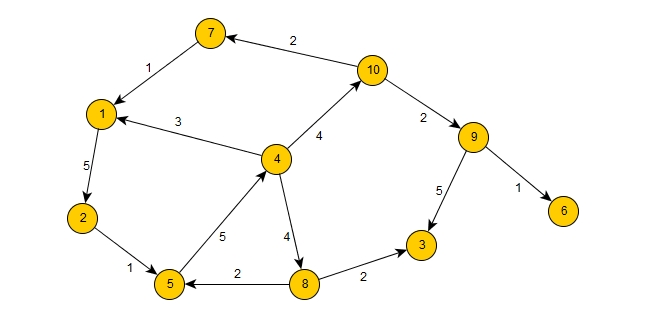
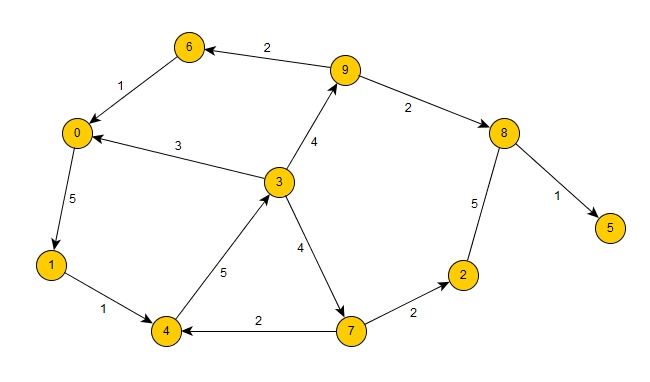
Post 9: changed graph.

diff --git a/9/src/main.rs b/9/src/main.rs
@@ -6,23 +6,23 @@ use graph::AdjacencyMatrix;
 use graph::ListOfEdges;
 
 fn main() {
-    let mut adjacency_list = AdjacencyList::<&str>::new();
-    create_sample_graph(&mut adjacency_list);
-    // AdjacencyList {
-    //     map: {
-    //         0:  {1: 5},
-    //         1:  {4: 1},
-    //         2:  {},
-    //         3:  {0: 3, 7: 4, 9: 4},
-    //         4:  {3: 5},
-    //         5:  {}
-    //         6:  {0: 1},
-    //         7:  {2: 2, 4: 2},
-    //         8:  {5: 1},
-    //         9: {6: 2, 8: 2},
-    //     },
-    //     ...
-    // }
+let mut adjacency_list = AdjacencyList::<&str>::new();
+create_sample_graph(&mut adjacency_list);
+// AdjacencyList {
+//     map: {
+//         0: {1: 5},
+//         1: {4: 1},
+//         2: {8: 2},
+//         3: {0: 3, 7: 4, 9: 4},
+//         4: {3: 5},
+//         5: {}
+//         6: {0: 1},
+//         7: {2: 2, 4: 2},
+//         8: {2: 5, 5: 1},
+//         9: {6: 2, 8: 2},
+//     },
+//     ...
+// }
 
     let mut adjacency_matrix = AdjacencyMatrix::<&str>::new();
     create_sample_graph(&mut adjacency_matrix);
@@ -30,13 +30,13 @@ fn main() {
     //     map: {
     //         0: {0: None,    1: Some(5), 2: None,    3: None,    4: None,    5: None,    6: None,    7: None,    8: None,    9: None   },
     //         1: {0: None,    1: None,    2: None,    3: None,    4: Some(1), 5: None,    6: None,    7: None,    8: None,    9: None   },
-    //         2: {0: None,    1: None,    2: None,    3: None,    4: None,    5: None,    6: None,    7: None,    8: None,    9: None   },
+    //         2: {0: None,    1: None,    2: None,    3: None,    4: None,    5: None,    6: None,    7: None,    8: Some(5), 9: None   },
     //         3: {0: Some(3), 1: None,    2: None,    3: None,    4: None,    5: None,    6: None,    7: Some(4), 8: None,    9: Some(4)},
     //         4: {0: None,    1: None,    2: None,    3: Some(5), 4: None,    5: None,    6: None,    7: None,    8: None,    9: None   },
     //         5: {0: None,    1: None,    2: None,    3: None,    4: None,    5: None,    6: None,    7: None,    8: None,    9: None   },
     //         6: {0: Some(1), 1: None,    2: None,    3: None,    4: None,    5: None,    6: None,    7: None,    8: None,    9: None   },
     //         7: {0: None,    1: None,    2: Some(2), 3: None,    4: Some(2), 5: None,    6: None,    7: None,    8: None,    9: None   },
-    //         8: {0: None,    1: None,    2: None,    3: None,    4: None,    5: Some(1), 6: None,    7: None,    8: None,    9: None   },
+    //         8: {0: None,    1: None,    2: Some(5), 3: None,    4: None,    5: Some(1), 6: None,    7: None,    8: None,    9: None   },
     //         9: {0: None,    1: None,    2: None,    3: None,    4: None,    5: None,    6: Some(2), 7: None,    8: Some(2), 9: None   },
     //     },
     //     ...
@@ -48,6 +48,7 @@ fn main() {
     //     map: [
     //         (0, 0, 5),
     //         (1, 4, 1),
+    //         (2, 8, 5),
     //         (3, 0, 3),
     //         (3, 7, 4),
     //         (3, 9, 4),
@@ -55,6 +56,7 @@ fn main() {
     //         (6, 0, 1),
     //         (7, 2, 2),
     //         (7, 4, 2),
+    //         (8, 2, 5),
     //         (8, 5, 1),
     //         (9, 6, 2),
     //         (9, 8, 2),
@@ -76,6 +78,7 @@ fn create_sample_graph<T: Graph<&'static str>>(graph: &mut T) {
     let key9 = graph.add_node("node9");
     graph.add_edge(key0, key1, 5, false);
     graph.add_edge(key1, key4, 1, false);
+    graph.add_edge(key2, key8, 5, true);
     graph.add_edge(key3, key0, 3, false);
     graph.add_edge(key3, key7, 4, false);
     graph.add_edge(key3, key9, 4, false);
